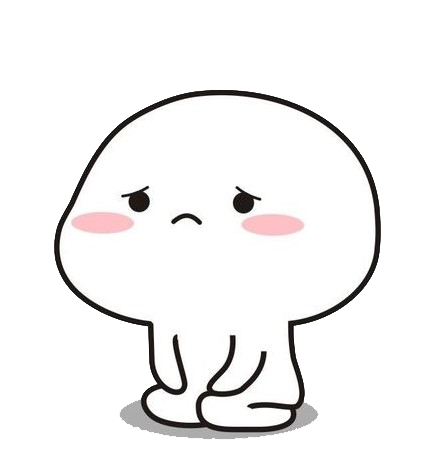
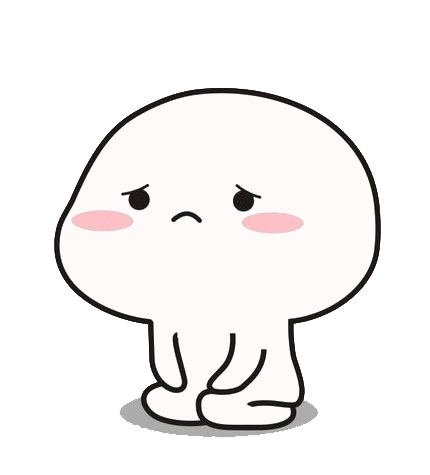
Final touches for this sprint

diff --git a/src/main/resources/view/PersonListPanel.css b/src/main/resources/view/PersonListPanel.css
@@ -53,7 +53,7 @@
     -fx-padding: 0 0 15 0;
     -fx-background-insets: 0 0 15 0;
     -fx-border-insets: 0 0 15 0;
-    -fx-border-width: 2;
+    -fx-border-width: 2.2;
     -fx-background-radius: 10;
     -fx-border-radius: 10;
     -fx-border-color: transparent;
@@ -66,7 +66,7 @@
 
 .list-cell:filled:selected {
     -fx-background-color: #f8d3ca;
-    -fx-border-color: #913E3E;
+    -fx-border-color: #795548;
 }
 
 .list-cell .label {

diff --git a/src/main/resources/view/MainWindow.css b/src/main/resources/view/MainWindow.css
@@ -1,9 +1,5 @@
 #mainContainer {
-   -fx-background-color: #FBFBFB;
-}
-
-#commandBoxPlaceholder .content {
-    -fx-background-color: white;
+   -fx-background-color: #FFFAFA;
 }
 
 #contactLists {

diff --git a/src/main/java/seedu/address/ui/MainWindow.java b/src/main/java/seedu/address/ui/MainWindow.java
@@ -177,15 +177,6 @@ public class MainWindow extends UiPart<Stage> {
 
     void show() {
         primaryStage.show();
-        logger.info("Application width: " + primaryStage.getWidth() + ", height: " + primaryStage.getHeight());
-
-        // Log whenever the window is resized
-        primaryStage.widthProperty().addListener((obs, oldWidth, newWidth) ->
-                logger.info("New width: " + newWidth)
-        );
-        primaryStage.heightProperty().addListener((obs, oldHeight, newHeight) ->
-                logger.info("New height: " + newHeight)
-        );
     }
 
     /**

diff --git a/src/main/java/seedu/address/ui/PersonListPanel.java b/src/main/java/seedu/address/ui/PersonListPanel.java
@@ -57,9 +57,10 @@ public class PersonListPanel extends UiPart<Region> {
         titleLabel.setMaxWidth(Double.MAX_VALUE);
         titleLabel.setAlignment(Pos.CENTER);
 
-        // Toggle visibility based on the list's content
+        // Initial visibility toggle
         togglePlaceholder(personList.isEmpty());
 
+        // Subsequent visibility toggle handler
         personList.addListener((ListChangeListener<Person>) change -> {
             togglePlaceholder(personList.isEmpty());
         });
